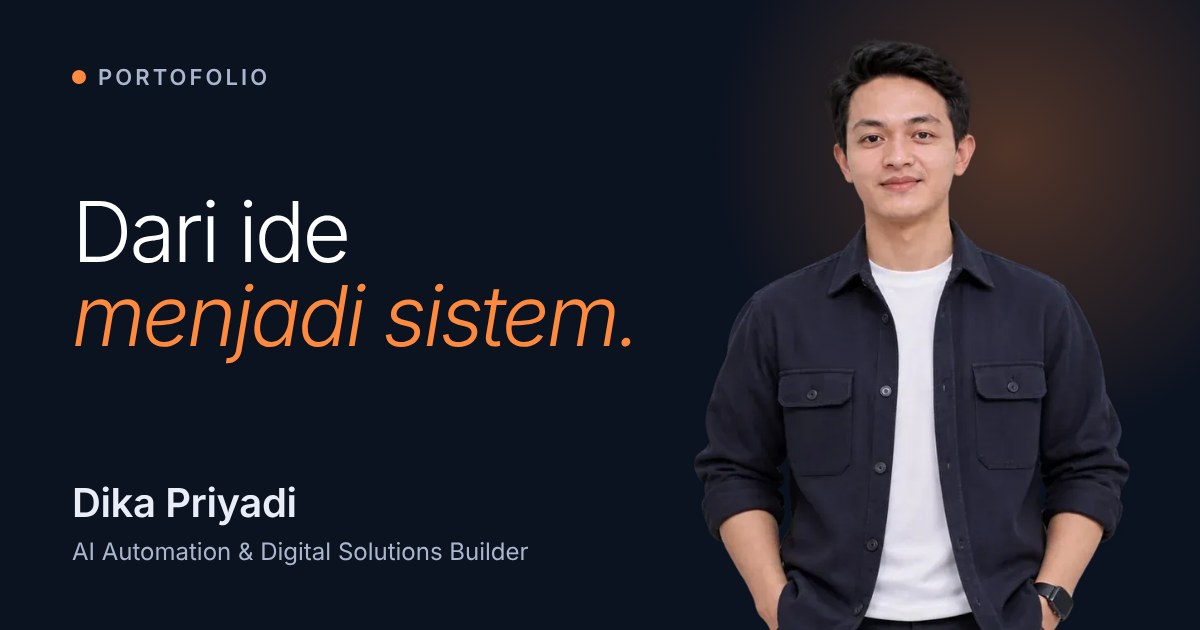
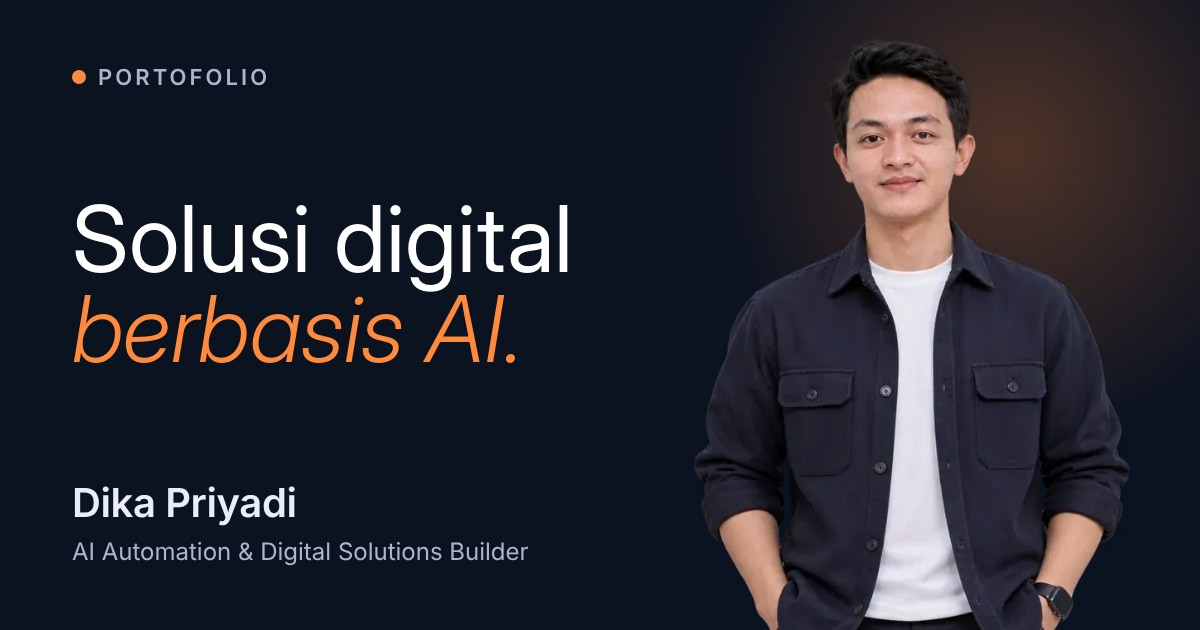
Portofolio: judul hero baru, status proyek, layanan freelance, nilai kerja, OG baru
Claude-Session: https://claude.ai/code/session_01HjNgUqN2ctgeqGBeCTBh1W

Changed region(s): [[0.0617, 0.3016, 0.5242, 0.573]]

diff --git a/portofolio/index.html b/portofolio/index.html
@@ -10,7 +10,7 @@
 <link rel="preload" as="image" href="assets/m1.webp" type="image/webp">
 <link rel="preconnect" href="https://fonts.googleapis.com"><link rel="preconnect" href="https://fonts.gstatic.com" crossorigin>
 <link rel="stylesheet" href="https://fonts.googleapis.com/css2?family=Fraunces:ital,wght@0,300;0,400;1,300;1,400&family=Inter:wght@400;500;600;700;800&display=swap">
-<link rel="stylesheet" href="style.css?v=20261124"></head>
+<link rel="stylesheet" href="style.css?v=20261125"></head>
 <body><div id="ld" aria-hidden="true"><span>Dika Priyadi</span><i></i></div><div id="pg" aria-hidden="true"></div><div class="amb" aria-hidden="true"><i class="o1"></i><i class="o2"></i><i class="o3"></i><b class="p p1"></b><b class="p p2"></b><b class="p p3"></b><b class="p p4"></b><b class="p p5"></b></div>
 <div class="cr" aria-hidden="true"></div><div class="cd" aria-hidden="true"></div>
 <header class="top"><a href="#home" data-go="home" class="logo"><i></i>Dika Priyadi</a><nav class="menu" aria-label="Menu utama"><a href="#home" data-go="home" class="nl"><span>Beranda</span></a><a href="#about" data-go="about" class="nl"><span>Tentang</span></a><a href="#skills" data-go="skills" class="nl"><span>Keahlian</span></a><a href="#experience" data-go="experience" class="nl"><span>Pengalaman</span></a><a href="#karya" data-go="karya" class="nl"><span>Karya</span></a><a href="#kontak" data-go="kontak" class="nl"><span>Kontak</span></a></nav><a class="rt" href="https://wa.me/6285722227544" target="_blank" rel="noopener">Hubungi</a><button class="burger" aria-label="Buka menu" aria-expanded="false"><span></span><span></span></button></header>
@@ -21,11 +21,11 @@
 <div class="pw" aria-hidden="false"><img src="assets/m1.webp" width="527" height="724" alt="Dika Priyadi menghadap ke depan, mengenakan kemeja navy" class="pose" data-i="0" data-hx="0.475" decoding="async" fetchpriority=high></div>
 <div class="side"><a class="btn pri" href="#karya" data-go="karya">Lihat karya</a><a class="btn gh" href="#kontak" data-go="kontak">Hubungi saya</a></div>
 <p class="vt" aria-hidden="true">AI Automation &amp; Digital Solutions Builder</p>
-<div class="hl-b" aria-hidden="true"><p class="tg">Dari ide<br><em>menjadi sistem.</em></p><p class="sub">Membangun website, bot WhatsApp, dan alur kerja berbasis AI yang dipakai dalam penggunaan nyata, dengan dasar 12+ tahun memimpin operasional.</p><div class="btns"><a class="btn pri" href="#karya" data-go="karya" tabindex="-1">Lihat karya</a><a class="btn gh" href="#kontak" data-go="kontak" tabindex="-1">Hubungi saya</a></div><p class="fl"><span><b>12+</b> tahun memimpin operasional</span><span><b>93</b> staf dalam tim terbesar</span><span><b>2</b> bot WhatsApp aktif</span></p></div>
+<div class="hl-b" aria-hidden="true"><p class="tg">Solusi digital<br><em>berbasis AI.</em></p><p class="sub">Membangun website, bot WhatsApp, dan alur kerja berbasis AI yang dipakai dalam penggunaan nyata, dengan dasar 12+ tahun memimpin operasional.</p><div class="btns"><a class="btn pri" href="#karya" data-go="karya" tabindex="-1">Lihat karya</a><a class="btn gh" href="#kontak" data-go="kontak" tabindex="-1">Hubungi saya</a></div><p class="fl"><span><b>12+</b> tahun memimpin operasional</span><span><b>93</b> staf dalam tim terbesar</span><span><b>2</b> bot WhatsApp aktif</span></p></div>
 <div class="hint"><span>Gulir</span><i></i><span class="dots"><button type="button" data-d="0" aria-label="Tahap 1"></button><button type="button" data-d="1" aria-label="Tahap 2"></button><button type="button" data-d="2" aria-label="Tahap 3"></button></span></div>
 <span class="ai">Visual dihasilkan AI</span></div></div></section>
 <section class="screen" id="about" data-s="about"><div class="wrap two"><div class="rv"><p class="lab">01 · Tentang</p><h2>Ketelitian operasional,<br><em>dibawa ke cara kerja AI.</em></h2><p class="body">Praktisi otomasi AI yang merancang alur kerja berbasis AI dan memastikan penerapannya berjalan di lapangan. Berpengalaman menyusun kebutuhan, struktur platform web, bot WhatsApp, serta produksi konten AI.</p><p class="body">Pengalaman memimpin tim hingga 93 staf membentuk ketelitian dalam menyusun SOP, melatih tim, dan menjaga mutu layanan.</p>
-<div class="more" hidden><p class="body">Perangkat yang dipakai mencakup GPT, Gemini, Claude, dan Google Flow untuk konten dan pengembangan, serta VPS, Nginx, PM2, SSL, GitHub, dan domain untuk menjalankan proyek web hingga dapat diakses publik.</p></div><button class="rm" data-more>Baca lengkap <i>&rarr;</i></button><a class="btn gh cv" href="assets/CV_Dika_Priyadi.pdf" download>Unduh CV (PDF)</a><div class="gal"><button class="lb" data-lb="about" aria-label="Perbesar foto: Dika Priyadi sedang bekerja dengan laptop"><img src="assets/f-kafe.webp" alt="Dika Priyadi sedang bekerja dengan laptop" loading="lazy" decoding="async"></button></div></div>
+<div class="more" hidden><p class="body">Perangkat yang dipakai mencakup GPT, Gemini, Claude, dan Google Flow untuk konten dan pengembangan, serta VPS, Nginx, PM2, SSL, GitHub, dan domain untuk menjalankan proyek web hingga dapat diakses publik. Nilai kerja: mengubah masalah operasional menjadi solusi digital, menggabungkan pengalaman lapangan dengan teknologi AI, dan menjaga hasil tetap dapat dipakai serta diverifikasi.</p></div><button class="rm" data-more>Baca lengkap <i>&rarr;</i></button><a class="btn gh cv" href="assets/CV_Dika_Priyadi.pdf" download>Unduh CV (PDF)</a><div class="gal"><button class="lb" data-lb="about" aria-label="Perbesar foto: Dika Priyadi sedang bekerja dengan laptop"><img src="assets/f-kafe.webp" alt="Dika Priyadi sedang bekerja dengan laptop" loading="lazy" decoding="async"></button></div></div>
 <div class="rv d2"><div class="stats big"><div><b>12+</b><span>tahun memimpin</span></div><div><b>93</b><span>staf, tim terbesar</span></div><div><b>4</b><span>tempat kerja</span></div></div>
 <div class="facts"><div><strong>Pendidikan</strong><span>S1 Manajemen, Universitas Terbuka. Sedang berjalan.</span></div><div><strong>Penghargaan</strong><span>Best Employee Project MRT Jakarta, Angkasa Pura Support (2023). Best Employee ISS Indonesia.</span><div class="fph"><button class="lb" data-lb="aw" aria-label="Perbesar foto: Pengumuman pemenang Sadewa The Best Employee 83"><img src="assets/f-selamat.webp" alt="Pengumuman pemenang Sadewa The Best Employee 83" loading="lazy" decoding="async"></button><button class="lb" data-lb="aw" aria-label="Perbesar foto: Piagam Sadewa Club Best Employee Award 2018, ISS"><img src="assets/f-sadewa.webp" alt="Piagam Sadewa Club Best Employee Award 2018, ISS" loading="lazy" decoding="async"></button></div></div><div><strong>Aktivitas</strong><span>Admin mahasiswa baru Universitas Terbuka. Bahasa: Indonesia; Inggris (dasar).</span></div></div></div></div></section>
 <section class="screen" id="skills" data-s="skills"><div class="wrap col"><div class="rv"><p class="lab">02 · Keahlian</p><h2>Keahlian yang <em>saya terapkan.</em></h2></div>
@@ -33,7 +33,7 @@
 <div class="tools rv d3"><p class="lab">Perangkat</p><div><span>ChatGPT</span><span>Google Gemini</span><span>Claude</span><span>Google Flow</span><span>VPS</span><span>Nginx</span><span>PM2</span><span>SSL</span><span>GitHub</span><span>Domain</span></div></div></div></section>
 <section class="screen" id="experience" data-s="experience"><div class="wrap two"><div class="rv"><p class="lab">03 · Pengalaman</p><h2>12+ tahun<br><em>di lapangan.</em></h2><p class="body">Menjabat Acting Supervisor Facility Management dan memimpin tim 24 hingga 93 staf di apartemen Jakarta Barat (termasuk PIK 2, lebih dari 1.000 unit), kampus, MRT Jakarta, dan Kereta Cepat Jakarta.</p><p class="body">Saat ini mengelola website dan bot WhatsApp untuk usaha jasa, serta melayani freelance: presentasi, portofolio web, feed Instagram, dan konten edukasi akademik.</p><div class="more" hidden><p class="body">Tanggung jawab mencakup pengawasan operasional harian, penyusunan SOP, pelatihan tim, penjadwalan, pelaporan, dan penanganan keluhan pelanggan.</p></div><button class="rm" data-more>Baca lengkap <i>&rarr;</i></button></div>
 <div class="tl rv d2"><div class="xrow"><span class="yr">Sekarang</span><div><strong>Pengelola Proyek Web dan Otomasi</strong><em>Mandiri · Jakarta Barat</em></div></div><div class="xrow"><span class="yr">2024–2026</span><div><strong>PT Horizon Internusa Persada</strong><em>Acting Supervisor Facility Management</em></div></div><div class="xrow"><span class="yr">2022–2024</span><div><strong>PT Angkasa Pura Support</strong><em>Facility Management · Best Employee Project MRT Jakarta 2023</em></div></div><div class="xrow"><span class="yr">2021–2022</span><div><strong>Mercu Buana Center</strong><em>Facility Management</em></div></div><div class="xrow"><span class="yr">2014–2021</span><div><strong>ISS Indonesia</strong><em>Facility Management</em></div></div></div></div></section>
-<section class="screen" id="karya" data-s="karya"><div class="wrap col"><div class="rv"><p class="lab">04 · Portofolio</p><h2>Karya &amp; <em>pengalaman.</em></h2></div><div class="kgrid rv d2"><div class="klist"><p class="kgrp">Pengalaman profesional</p><button class="krow on" data-k="0"><b>01</b><span><strong>Supervisor Facility Management</strong><em>Pengalaman lapangan</em></span><i>&rarr;</i></button><button class="krow" data-k="1"><b>02</b><span><strong>Facility Care Training</strong><em>Pelatihan tim facility</em></span><i>&rarr;</i></button><p class="kgrp">Proyek digital</p><button class="krow" data-k="2"><b>03</b><span><strong>CatatanAkademik.com</strong><em>Platform edukasi mahasiswa UT</em></span><i>&rarr;</i></button><button class="krow" data-k="3"><b>04</b><span><strong>Bedah Laporan &amp; Cek Parafrase</strong><em>Pemeriksaan dokumen UT</em></span><i>&rarr;</i></button><button class="krow" data-k="4"><b>05</b><span><strong>Analisa Sahabat Analisis</strong><em>Analisis akun media sosial</em></span><i>&rarr;</i></button><button class="krow" data-k="5"><b>06</b><span><strong>Bot WhatsApp</strong><em>Dua bot di VPS</em></span><i>&rarr;</i></button><button class="krow" data-k="6"><b>07</b><span><strong>Media Belajar AI Guru TK/SD</strong><em>Sedang dikembangkan</em></span><i>&rarr;</i></button><button class="krow" data-k="7"><b>08</b><span><strong>Produksi Konten AI</strong><em>Carousel, artikel, TikTok, Instagram</em></span><i>&rarr;</i></button><button class="krow" data-k="8"><b>09</b><span><strong>Koordinasi Workflow AI</strong><em>GPT, Gemini, Claude, Google Flow</em></span><i>&rarr;</i></button><button class="krow" data-k="9"><b>10</b><span><strong>Studio Konten</strong><em>Sedang dikembangkan</em></span><i>&rarr;</i></button></div><div class="kdets"><article class="kdet on" data-k="0"><p class="lab">01 &middot; Pengalaman lapangan</p><h3>Supervisor Facility Management</h3><p class="kd">Mengawasi operasional fasilitas gedung dan area publik agar tetap bersih, aman, tertata, dan nyaman dipakai. Perannya menjaga standar layanan harian, memastikan tim bekerja sesuai SOP, dan menanggapi keluhan pengguna dengan cepat.</p><ul><li>Lingkup: apartemen (termasuk PIK 2, lebih dari 1.000 unit), kampus, rumah sakit, MRT Jakarta, dan Kereta Cepat Jakarta</li><li>Memimpin tim 24 hingga 93 staf</li><li>Pengawasan operasional harian, penjadwalan, dan pelaporan</li><li>Penyusunan SOP, pelatihan tim, dan penanganan keluhan pelanggan</li><li>Penghargaan Best Employee Project MRT Jakarta 2023</li><li>Manfaat: layanan fasilitas konsisten, tim terarah, dan laporan operasional yang jelas</li></ul><div class="tags"><span>Facility Management</span><span>Supervisi</span><span>SOP</span><span>Pelatihan tim</span></div><div class="kph"><button class="lb" data-lb="k0" aria-label="Perbesar foto: Mengawasi kegiatan lapangan bersama tim"><img src="assets/f-lapangan.webp" alt="Mengawasi kegiatan lapangan bersama tim" loading="lazy" decoding="async"></button><button class="lb" data-lb="k0" aria-label="Perbesar foto: Kegiatan bersama rekan kerja PT ISS Indonesia"><img src="assets/f-ramadhan.webp" alt="Kegiatan bersama rekan kerja PT ISS Indonesia" loading="lazy" decoding="async"></button></div></article><article class="kdet" data-k="1"><p class="lab">02 &middot; Pelatihan tim facility</p><h3>Facility Care Training</h3><p class="kd">Pelatihan bagi tim facility management berdasarkan praktik lapangan. Fungsinya menyamakan standar kerja dan mempercepat anggota tim baru siap bertugas. Arah profesional yang sedang dikembangkan.</p><ul><li>Sasaran: tim facility management</li><li>Materi: SOP kerja harian, penjadwalan, pelaporan, dan penanganan keluhan</li><li>Dasar materi: pengalaman memimpin tim 24 hingga 93 staf</li></ul><div class="tags"><span>Training</span><span>Facility Care</span></div></article><article class="kdet" data-k="2"><p class="lab">03 &middot; Platform edukasi mahasiswa UT</p><h3>CatatanAkademik.com</h3><p class="kd">Platform edukasi bagi mahasiswa Universitas Terbuka yang memuat panduan mahasiswa baru, kelas tutorial, alat pemeriksaan dokumen, dan blog artikel. Konten dikelola mandiri melalui panel admin, dan situs terindeks Google Search Console.</p><div class="cs"><div><b>Masalah</b><p>Mahasiswa UT mencari panduan, tutorial, dan alat bantu di banyak tempat terpisah.</p></div><div><b>Solusi</b><p>Satu platform berisi panduan mahasiswa baru, kelas tutorial, alat pemeriksaan dokumen, dan blog, dengan login Google dan panel admin untuk mengelola konten mandiri.</p></div><div><b>Hasil</b><p>Situs terindeks Google Search Console dan komunitas WhatsApp edukasi mencapai sekitar 824 anggota.</p></div></div><ul><li>Panduan Mahasiswa Baru dan Portal UT</li><li>Tutorial Online: diskusi, tugas, makalah, jurnal, metodologi</li><li>Kalkulator nilai</li><li>Blog artikel dengan alur draf sebelum terbit</li><li>Komunitas WhatsApp edukasi sekitar 824 anggota</li></ul><div class="tags"><span>Edukasi UT</span><span>Blog</span><span>Kalkulator nilai</span><span>SEO</span></div><div class="kph"><button class="lb" data-lb="k2" aria-label="Perbesar foto: Dasbor panel admin CatatanAkademik.com"><img src="assets/k-admin.webp" alt="Dasbor panel admin CatatanAkademik.com" loading="lazy" decoding="async"></button></div></article><article class="kdet" data-k="3"><p class="lab">04 &middot; Pemeriksaan dokumen UT</p><h3>Bedah Laporan &amp; Cek Parafrase</h3><p class="kd">Mahasiswa mengunggah dokumen asli beserta laporan AI dan Similarity untuk melihat analisis tiap kalimat dengan penanda warna. Pada layanan parafrase, kalimat bertanda dikerjakan manual oleh admin dan hasilnya dikirim dalam format Word.</p><ul><li>Bedah Laporan UT: rekomendasi per kalimat, sebagian gratis</li><li>Cek &amp; Parafrase Mandiri: dikerjakan admin, hasil berformat .docx</li><li>Studio Parafrase admin: dokumen asli dan dokumen polos berdampingan</li><li>Unggahan tersimpan di panel admin sesuai batas penyimpanan</li></ul><div class="tags"><span>Unggah PDF/Word</span><span>Analisis warna</span><span>Panel admin</span></div></article><article class="kdet" data-k="4"><p class="lab">05 &middot; Analisis akun media sosial</p><h3>Analisa Sahabat Analisis</h3><p class="kd">Alat analisis akun media sosial yang menghasilkan skor performa 0–100, pemetaan kelebihan dan kekurangan, serta rekomendasi perbaikan. Fitur adu dua akun membandingkan performa secara langsung.</p><ul><li>Skor performa 0–100</li><li>Pemetaan kelebihan dan kekurangan</li><li>Rekomendasi perbaikan akun</li><li>Adu dua akun secara langsung</li></ul><div class="tags"><span>Analisis sosmed</span><span>Skor 0–100</span></div><div class="kph"><button class="lb" data-lb="k4" aria-label="Perbesar foto: Halaman utama alat analisis akun TikTok"><img src="assets/k-analisa1.webp" alt="Halaman utama alat analisis akun TikTok" loading="lazy" decoding="async"></button><button class="lb" data-lb="k4" aria-label="Perbesar foto: Fitur adu dua akun pada alat analisis"><img src="assets/k-analisa2.webp" alt="Fitur adu dua akun pada alat analisis" loading="lazy" decoding="async"></button></div></article><article class="kdet" data-k="5"><p class="lab">06 &middot; Dua bot di VPS</p><h3>Bot WhatsApp</h3><p class="kd">Dua bot WhatsApp berjalan di VPS. Bot pertama mengelola grup dan melayani pelanggan, bot kedua menangani admin serta notifikasi pesanan. Arah pengembangannya adalah interaksi bahasa natural tanpa perintah berawalan tanda seru.</p><div class="cs"><div><b>Masalah</b><p>Pengelolaan grup dan pemantauan pesanan lewat WhatsApp berulang dan memakan waktu admin.</p></div><div><b>Solusi</b><p>Dua bot di VPS: satu mengelola grup (anti-spam, pengingat, catatan, bahasa natural), satu mengirim notifikasi pesanan ke admin.</p></div><div><b>Hasil</b><p>Dua bot aktif berjalan terus di server dan menangani tugas rutin tanpa dikerjakan manual.</p></div></div><ul><li>Bot 1: anti-spam, pengingat, catatan, dan stiker</li><li>Membalas sesuai bahasa pelanggan (Sunda, Betawi, Inggris, dan lainnya)</li><li>Simulasi ujian dari jenjang SD sampai kuliah</li><li>Bot 2: admin semi-otomatis dan notifikasi pesanan</li></ul><div class="tags"><span>VPS</span><span>PM2</span><span>Bahasa natural</span></div><div class="kph"><button class="lb" data-lb="k5" aria-label="Perbesar foto: Contoh percakapan bot WhatsApp berbahasa natural"><img src="assets/k-bot.webp" alt="Contoh percakapan bot WhatsApp berbahasa natural" loading="lazy" decoding="async"></button></div></article><article class="kdet" data-k="6"><p class="lab">07 &middot; Sedang dikembangkan</p><h3>Media Belajar AI Guru TK/SD</h3><p class="kd">Sistem media belajar berbasis AI yang berawal dari kebutuhan seorang guru TK dan SD. Antarmukanya direncanakan melalui WhatsApp agar mudah dipakai dalam keseharian.</p><ul><li>Sistem belajar AI melalui WhatsApp</li><li>Berawal dari kebutuhan nyata guru TK dan SD</li><li>Tahap perancangan dan pengembangan</li></ul><div class="tags"><span>Dalam pengembangan</span></div></article><article class="kdet" data-k="7"><p class="lab">08 &middot; Carousel, artikel, TikTok, Instagram</p><h3>Produksi Konten AI</h3><p class="kd">Pembuatan gambar dan video dari prompt maupun gambar, artikel SEO, carousel, serta konten TikTok dan Instagram dengan perangkat AI. Sampul bergaya estetik tanpa wajah disiapkan sebagai templat yang dapat menjadi carousel.</p><ul><li>Text-to-image, text-to-video, dan image-to-video</li><li>Artikel SEO untuk blog Catatan Akademik</li><li>Sampul estetik tanpa wajah yang dapat menjadi carousel</li><li>Posting Instagram otomatis terjadwal (dalam perancangan)</li></ul><div class="tags"><span>GPT</span><span>Gemini</span><span>Google Flow</span></div></article><article class="kdet" data-k="8"><p class="lab">09 &middot; GPT, Gemini, Claude, Google Flow</p><h3>Koordinasi Workflow AI</h3><p class="kd">Pengaturan penggunaan GPT, Gemini, Google Flow, dan Claude untuk mendukung pembuatan konten dan pengembangan proyek web hingga menjadi keluaran digital. Pekerjaan rutin diarahkan melalui agen dan router API agar hemat kuota.</p><ul><li>Pembagian peran antarmodel AI</li><li>Agen Hermes dan 9Router untuk pekerjaan rutin</li><li>Dari penentuan kebutuhan hingga deploy ke VPS</li></ul><div class="tags"><span>Hermes</span><span>9Router</span><span>GitHub</span><span>VPS</span></div></article><article class="kdet" data-k="9"><p class="lab">10 &middot; Sedang dikembangkan</p><h3>Studio Konten</h3><p class="kd">Analisis pola konten yang menilai hook, CTA, dan pola lain pada akun media sosial maupun artikel blog, dengan hasil berupa skor dan saran. Pengembangan juga mencakup posting terjadwal IG/TikTok dan video motion melalui prompt.</p><ul><li>Penilaian hook dan CTA</li><li>Skor dan saran perbaikan</li><li>Posting terjadwal IG dan TikTok</li><li>Video motion melalui prompt</li></ul><div class="tags"><span>Dalam pengembangan</span></div></article></div></div></div></section>
+<section class="screen" id="karya" data-s="karya"><div class="wrap col"><div class="rv"><p class="lab">04 · Portofolio</p><h2>Karya &amp; <em>pengalaman.</em></h2></div><div class="kgrid rv d2"><div class="klist"><p class="kgrp">Pengalaman profesional</p><button class="krow on" data-k="0"><b>01</b><span><strong>Supervisor Facility Management</strong><em>Pengalaman lapangan</em></span><i>&rarr;</i></button><button class="krow" data-k="1"><b>02</b><span><strong>Facility Care Training</strong><em>Pelatihan tim facility</em></span><i>&rarr;</i></button><p class="kgrp">Proyek digital</p><button class="krow" data-k="2"><b>03</b><span><strong>CatatanAkademik.com</strong><em>Platform edukasi mahasiswa UT</em></span><u class="sd s-B" title="Berjalan"></u><i>&rarr;</i></button><button class="krow" data-k="3"><b>04</b><span><strong>Bedah Laporan &amp; Cek Parafrase</strong><em>Pemeriksaan dokumen UT</em></span><u class="sd s-B" title="Berjalan"></u><i>&rarr;</i></button><button class="krow" data-k="4"><b>05</b><span><strong>Analisa Sahabat Analisis</strong><em>Analisis akun media sosial</em></span><u class="sd s-B" title="Berjalan"></u><i>&rarr;</i></button><button class="krow" data-k="5"><b>06</b><span><strong>Bot WhatsApp</strong><em>Dua bot di VPS</em></span><u class="sd s-B" title="Berjalan"></u><i>&rarr;</i></button><button class="krow" data-k="6"><b>07</b><span><strong>Media Belajar AI Guru TK/SD</strong><em>Sedang dikembangkan</em></span><u class="sd s-D" title="Dikembangkan"></u><i>&rarr;</i></button><button class="krow" data-k="7"><b>08</b><span><strong>Produksi Konten AI</strong><em>Carousel, artikel, TikTok, Instagram</em></span><u class="sd s-B" title="Berjalan"></u><i>&rarr;</i></button><button class="krow" data-k="8"><b>09</b><span><strong>Koordinasi Workflow AI</strong><em>GPT, Gemini, Claude, Google Flow</em></span><u class="sd s-B" title="Berjalan"></u><i>&rarr;</i></button><button class="krow" data-k="9"><b>10</b><span><strong>Studio Konten</strong><em>Sedang dikembangkan</em></span><u class="sd s-D" title="Dikembangkan"></u><i>&rarr;</i></button><p class="kgrp">Layanan freelance</p><button class="krow" data-k="10"><b>11</b><span><strong>Portofolio Web dan Presentasi</strong><em>Portofolio, PPT, desain</em></span><u class="sd s-B" title="Berjalan"></u><i>&rarr;</i></button><button class="krow" data-k="11"><b>12</b><span><strong>Media Sosial dan Konten Edukasi</strong><em>Feed, konten, akademik</em></span><u class="sd s-B" title="Berjalan"></u><i>&rarr;</i></button></div><div class="kdets"><article class="kdet on" data-k="0"><p class="lab">01 &middot; Pengalaman lapangan</p><h3>Supervisor Facility Management</h3><p class="kd">Mengawasi operasional fasilitas gedung dan area publik agar tetap bersih, aman, tertata, dan nyaman dipakai. Perannya menjaga standar layanan harian, memastikan tim bekerja sesuai SOP, dan menanggapi keluhan pengguna dengan cepat.</p><ul><li>Lingkup: apartemen (termasuk PIK 2, lebih dari 1.000 unit), kampus, rumah sakit, MRT Jakarta, dan Kereta Cepat Jakarta</li><li>Memimpin tim 24 hingga 93 staf</li><li>Pengawasan operasional harian, penjadwalan, dan pelaporan</li><li>Penyusunan SOP, pelatihan tim, dan penanganan keluhan pelanggan</li><li>Penghargaan Best Employee Project MRT Jakarta 2023</li><li>Manfaat: layanan fasilitas konsisten, tim terarah, dan laporan operasional yang jelas</li></ul><div class="tags"><span>Facility Management</span><span>Supervisi</span><span>SOP</span><span>Pelatihan tim</span></div><div class="kph"><button class="lb" data-lb="k0" aria-label="Perbesar foto: Mengawasi kegiatan lapangan bersama tim"><img src="assets/f-lapangan.webp" alt="Mengawasi kegiatan lapangan bersama tim" loading="lazy" decoding="async"></button><button class="lb" data-lb="k0" aria-label="Perbesar foto: Kegiatan bersama rekan kerja PT ISS Indonesia"><img src="assets/f-ramadhan.webp" alt="Kegiatan bersama rekan kerja PT ISS Indonesia" loading="lazy" decoding="async"></button></div></article><article class="kdet" data-k="1"><p class="lab">02 &middot; Pelatihan tim facility</p><h3>Facility Care Training</h3><p class="kd">Pelatihan bagi tim facility management berdasarkan praktik lapangan. Fungsinya menyamakan standar kerja dan mempercepat anggota tim baru siap bertugas. Arah profesional yang sedang dikembangkan.</p><ul><li>Sasaran: tim facility management</li><li>Materi: SOP kerja harian, penjadwalan, pelaporan, dan penanganan keluhan</li><li>Dasar materi: pengalaman memimpin tim 24 hingga 93 staf</li></ul><div class="tags"><span>Training</span><span>Facility Care</span></div></article><article class="kdet" data-k="2"><p class="lab">03 &middot; Platform edukasi mahasiswa UT <span class="stp s-B">Berjalan</span></p><h3>CatatanAkademik.com</h3><p class="kd">Platform edukasi bagi mahasiswa Universitas Terbuka yang memuat panduan mahasiswa baru, kelas tutorial, alat pemeriksaan dokumen, dan blog artikel. Konten dikelola mandiri melalui panel admin, dan situs terindeks Google Search Console.</p><div class="cs"><div><b>Masalah</b><p>Mahasiswa UT mencari panduan, tutorial, dan alat bantu di banyak tempat terpisah.</p></div><div><b>Solusi</b><p>Satu platform berisi panduan mahasiswa baru, kelas tutorial, alat pemeriksaan dokumen, dan blog, dengan login Google dan panel admin untuk mengelola konten mandiri.</p></div><div><b>Hasil</b><p>Situs terindeks Google Search Console dan komunitas WhatsApp edukasi mencapai sekitar 824 anggota.</p></div></div><ul><li>Panduan Mahasiswa Baru dan Portal UT</li><li>Tutorial Online: diskusi, tugas, makalah, jurnal, metodologi</li><li>Kalkulator nilai</li><li>Blog artikel dengan alur draf sebelum terbit</li><li>Komunitas WhatsApp edukasi sekitar 824 anggota</li></ul><div class="tags"><span>Edukasi UT</span><span>Blog</span><span>Kalkulator nilai</span><span>SEO</span></div><div class="kph"><button class="lb" data-lb="k2" aria-label="Perbesar foto: Dasbor panel admin CatatanAkademik.com"><img src="assets/k-admin.webp" alt="Dasbor panel admin CatatanAkademik.com" loading="lazy" decoding="async"></button></div></article><article class="kdet" data-k="3"><p class="lab">04 &middot; Pemeriksaan dokumen UT <span class="stp s-B">Berjalan</span></p><h3>Bedah Laporan &amp; Cek Parafrase</h3><p class="kd">Mahasiswa mengunggah dokumen asli beserta laporan AI dan Similarity untuk melihat analisis tiap kalimat dengan penanda warna. Pada layanan parafrase, kalimat bertanda dikerjakan manual oleh admin dan hasilnya dikirim dalam format Word.</p><ul><li>Bedah Laporan UT: rekomendasi per kalimat, sebagian gratis</li><li>Cek &amp; Parafrase Mandiri: dikerjakan admin, hasil berformat .docx</li><li>Studio Parafrase admin: dokumen asli dan dokumen polos berdampingan</li><li>Unggahan tersimpan di panel admin sesuai batas penyimpanan</li></ul><div class="tags"><span>Unggah PDF/Word</span><span>Analisis warna</span><span>Panel admin</span></div></article><article class="kdet" data-k="4"><p class="lab">05 &middot; Analisis akun media sosial <span class="stp s-B">Berjalan</span></p><h3>Analisa Sahabat Analisis</h3><p class="kd">Alat analisis akun media sosial yang menghasilkan skor performa 0–100, pemetaan kelebihan dan kekurangan, serta rekomendasi perbaikan. Fitur adu dua akun membandingkan performa secara langsung.</p><ul><li>Skor performa 0–100</li><li>Pemetaan kelebihan dan kekurangan</li><li>Rekomendasi perbaikan akun</li><li>Adu dua akun secara langsung</li></ul><div class="tags"><span>Analisis sosmed</span><span>Skor 0–100</span></div><div class="kph"><button class="lb" data-lb="k4" aria-label="Perbesar foto: Halaman utama alat analisis akun TikTok"><img src="assets/k-analisa1.webp" alt="Halaman utama alat analisis akun TikTok" loading="lazy" decoding="async"></button><button class="lb" data-lb="k4" aria-label="Perbesar foto: Fitur adu dua akun pada alat analisis"><img src="assets/k-analisa2.webp" alt="Fitur adu dua akun pada alat analisis" loading="lazy" decoding="async"></button></div></article><article class="kdet" data-k="5"><p class="lab">06 &middot; Dua bot di VPS <span class="stp s-B">Berjalan</span></p><h3>Bot WhatsApp</h3><p class="kd">Dua bot WhatsApp berjalan di VPS. Bot pertama mengelola grup dan melayani pelanggan, bot kedua menangani admin serta notifikasi pesanan. Arah pengembangannya adalah interaksi bahasa natural tanpa perintah berawalan tanda seru.</p><div class="cs"><div><b>Masalah</b><p>Pengelolaan grup dan pemantauan pesanan lewat WhatsApp berulang dan memakan waktu admin.</p></div><div><b>Solusi</b><p>Dua bot di VPS: satu mengelola grup (anti-spam, pengingat, catatan, bahasa natural), satu mengirim notifikasi pesanan ke admin.</p></div><div><b>Hasil</b><p>Dua bot aktif berjalan terus di server dan menangani tugas rutin tanpa dikerjakan manual.</p></div></div><ul><li>Bot 1: anti-spam, pengingat, catatan, dan stiker</li><li>Membalas sesuai bahasa pelanggan (Sunda, Betawi, Inggris, dan lainnya)</li><li>Simulasi ujian dari jenjang SD sampai kuliah</li><li>Bot 2: admin semi-otomatis dan notifikasi pesanan</li></ul><div class="tags"><span>VPS</span><span>PM2</span><span>Bahasa natural</span></div><div class="kph"><button class="lb" data-lb="k5" aria-label="Perbesar foto: Contoh percakapan bot WhatsApp berbahasa natural"><img src="assets/k-bot.webp" alt="Contoh percakapan bot WhatsApp berbahasa natural" loading="lazy" decoding="async"></button></div></article><article class="kdet" data-k="6"><p class="lab">07 &middot; Sedang dikembangkan <span class="stp s-D">Dikembangkan</span></p><h3>Media Belajar AI Guru TK/SD</h3><p class="kd">Sistem media belajar berbasis AI yang berawal dari kebutuhan seorang guru TK dan SD. Antarmukanya direncanakan melalui WhatsApp agar mudah dipakai dalam keseharian.</p><ul><li>Sistem belajar AI melalui WhatsApp</li><li>Berawal dari kebutuhan nyata guru TK dan SD</li><li>Tahap perancangan dan pengembangan</li></ul><div class="tags"><span>Dalam pengembangan</span></div></article><article class="kdet" data-k="7"><p class="lab">08 &middot; Carousel, artikel, TikTok, Instagram <span class="stp s-B">Berjalan</span></p><h3>Produksi Konten AI</h3><p class="kd">Pembuatan gambar dan video dari prompt maupun gambar, artikel SEO, carousel, serta konten TikTok dan Instagram dengan perangkat AI. Sampul bergaya estetik tanpa wajah disiapkan sebagai templat yang dapat menjadi carousel.</p><ul><li>Text-to-image, text-to-video, dan image-to-video</li><li>Artikel SEO untuk blog Catatan Akademik</li><li>Sampul estetik tanpa wajah yang dapat menjadi carousel</li><li>Posting Instagram otomatis terjadwal (dalam perancangan)</li></ul><div class="tags"><span>GPT</span><span>Gemini</span><span>Google Flow</span></div></article><article class="kdet" data-k="8"><p class="lab">09 &middot; GPT, Gemini, Claude, Google Flow <span class="stp s-B">Berjalan</span></p><h3>Koordinasi Workflow AI</h3><p class="kd">Pengaturan penggunaan GPT, Gemini, Google Flow, dan Claude untuk mendukung pembuatan konten dan pengembangan proyek web hingga menjadi keluaran digital. Pekerjaan rutin diarahkan melalui agen dan router API agar hemat kuota.</p><ul><li>Pembagian peran antarmodel AI</li><li>Agen Hermes dan 9Router untuk pekerjaan rutin</li><li>Dari penentuan kebutuhan hingga deploy ke VPS</li></ul><div class="tags"><span>Hermes</span><span>9Router</span><span>GitHub</span><span>VPS</span></div></article><article class="kdet" data-k="9"><p class="lab">10 &middot; Sedang dikembangkan <span class="stp s-D">Dikembangkan</span></p><h3>Studio Konten</h3><p class="kd">Analisis pola konten yang menilai hook, CTA, dan pola lain pada akun media sosial maupun artikel blog, dengan hasil berupa skor dan saran. Pengembangan juga mencakup posting terjadwal IG/TikTok dan video motion melalui prompt.</p><ul><li>Penilaian hook dan CTA</li><li>Skor dan saran perbaikan</li><li>Posting terjadwal IG dan TikTok</li><li>Video motion melalui prompt</li></ul><div class="tags"><span>Dalam pengembangan</span></div></article><article class="kdet" data-k="10"><p class="lab">11 &middot; Layanan freelance <span class="stp s-B">Berjalan</span></p><h3>Portofolio Web dan Presentasi</h3><p class="kd">Pembuatan portofolio berbasis web dan presentasi (PPT) untuk kebutuhan usaha, pekerjaan, dan akademik.</p><ul><li>Portofolio berbasis web</li><li>Presentasi (PPT)</li><li>Penataan konten dan tampilan</li></ul><div class="tags"><span>Web</span><span>PPT</span><span>Canva</span></div></article><article class="kdet" data-k="11"><p class="lab">12 &middot; Layanan freelance <span class="stp s-B">Berjalan</span></p><h3>Media Sosial dan Konten Edukasi</h3><p class="kd">Pembuatan feed Instagram, pengelolaan media sosial, serta pendampingan dan konten edukasi akademik.</p><ul><li>Feed Instagram</li><li>Pengelolaan media sosial</li><li>Pendampingan dan konten edukasi akademik</li></ul><div class="tags"><span>Instagram</span><span>TikTok</span><span>Edukasi</span></div></article></div></div></div></section>
 <section class="screen" id="kontak" data-s="kontak"><div class="wrap two"><div class="rv"><p class="lab">05 · Kontak</p><h2>Mari<br><em class="shim">berdiskusi.</em></h2><p class="body">Memiliki kebutuhan website, bot, atau konten berbasis AI? Silakan sampaikan, saya akan menanggapinya.</p><a class="btn pri" href="https://wa.me/6285722227544" target="_blank" rel="noopener">Hubungi via WhatsApp</a><a class="btn gh cv" href="assets/CV_Dika_Priyadi.pdf" download>Unduh CV (PDF)</a></div>
 <div class="crows rv d2"><a href="https://wa.me/6285722227544" target="_blank" rel="noopener"><span>WhatsApp</span><strong>Chat langsung untuk berdiskusi</strong><i>&rarr;</i></a><a href="mailto:dika.priyadi@catatanakademik.com"><span>Email</span><strong>Kirim pesan lewat email</strong><i>&rarr;</i></a><a href="https://linkedin.com/in/dika-priyadi-827aa0126" target="_blank" rel="noopener"><span>LinkedIn</span><strong>Profil profesional</strong><i>&rarr;</i></a><a href="https://instagram.com/deikaru.dz" target="_blank" rel="noopener"><span>Instagram</span><strong>@deikaru.dz</strong><i>&rarr;</i></a><a href="https://www.tiktok.com/@akihabara.fuzi" target="_blank" rel="noopener"><span>TikTok</span><strong>@akihabara.fuzi</strong><i>&rarr;</i></a></div></div></section>
-</main><script src="script.js?v=20261124" defer></script></body></html>
+</main><script src="script.js?v=20261125" defer></script></body></html>

diff --git a/portofolio/style.css b/portofolio/style.css
@@ -297,3 +297,12 @@ p,.kd,.body,.sub,li{text-wrap:pretty}
 @media(min-width:861px) and (max-height:780px){.kdet:has(.cs) ul{display:none}.kph .lb img{height:88px}}
 .pc{position:fixed;left:0;top:0;width:100vw;height:100vh;pointer-events:none;mix-blend-mode:screen;z-index:40}
 .pw.pa .pose{opacity:0!important;transition:none}.pw .pose{transition:opacity 1s ease}
+/* status proyek */
+.sd{display:inline-block;width:7px;height:7px;border-radius:50%;margin-left:auto;margin-right:8px;flex:none;align-self:center;background:#8aa0c4}
+.sd.s-B{background:#4ade80;box-shadow:0 0 0 3px rgba(74,222,128,.15)}.sd.s-D{background:var(--ac);box-shadow:0 0 0 3px rgba(255,138,61,.15)}
+.stp{display:inline-block;margin-left:10px;padding:3px 9px;border-radius:999px;font-size:11px;letter-spacing:.06em;text-transform:none;font-weight:500;border:1px solid var(--line);color:var(--tx);vertical-align:middle}
+.stp.s-B{border-color:rgba(74,222,128,.45);color:#86efac}.stp.s-D{border-color:rgba(255,138,61,.5);color:#ffb27d}
+@media(min-width:861px) and (max-height:780px){.klist .krow{padding-top:6px;padding-bottom:6px}.klist .kgrp{margin-top:8px}}
+.klist>*{flex-shrink:0}
+@media(min-width:861px){.krow em{display:none}.krow{padding-top:8px;padding-bottom:8px}}
+@media(min-width:861px) and (max-height:780px){.krow{padding-top:5px;padding-bottom:5px}.klist .kgrp{margin:6px 0 2px}.kdet h3{margin-bottom:8px}}
